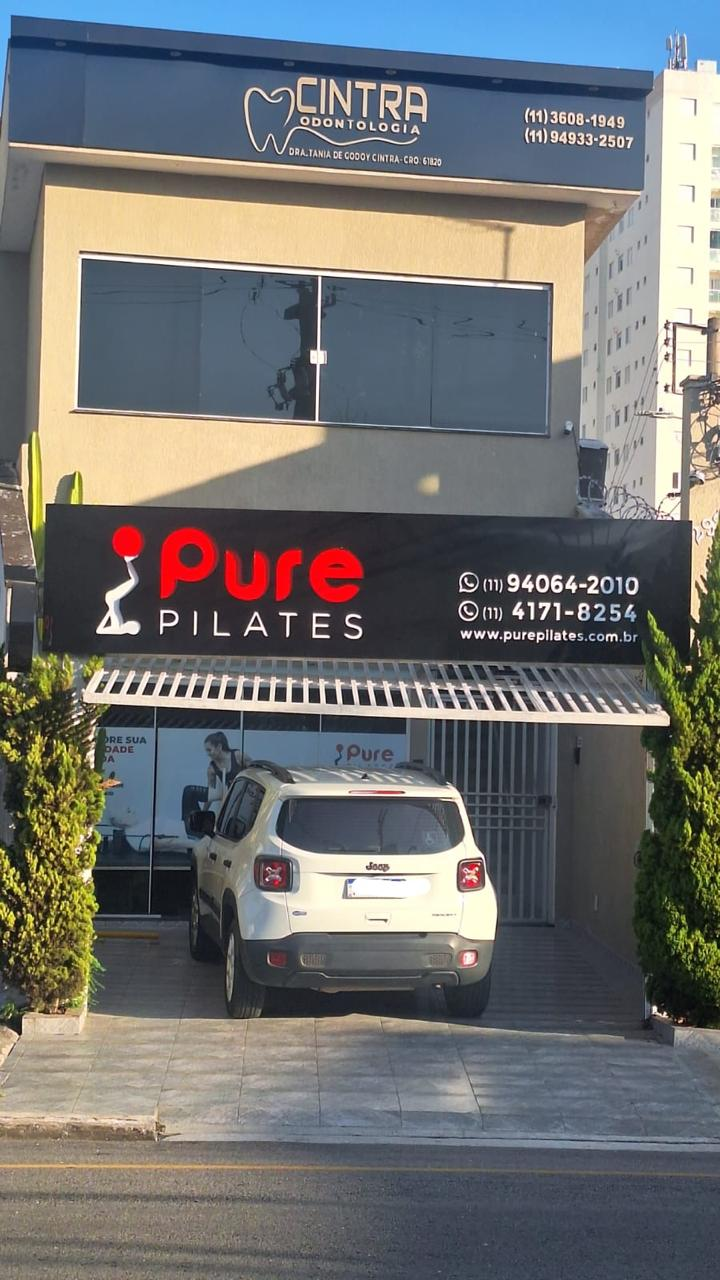
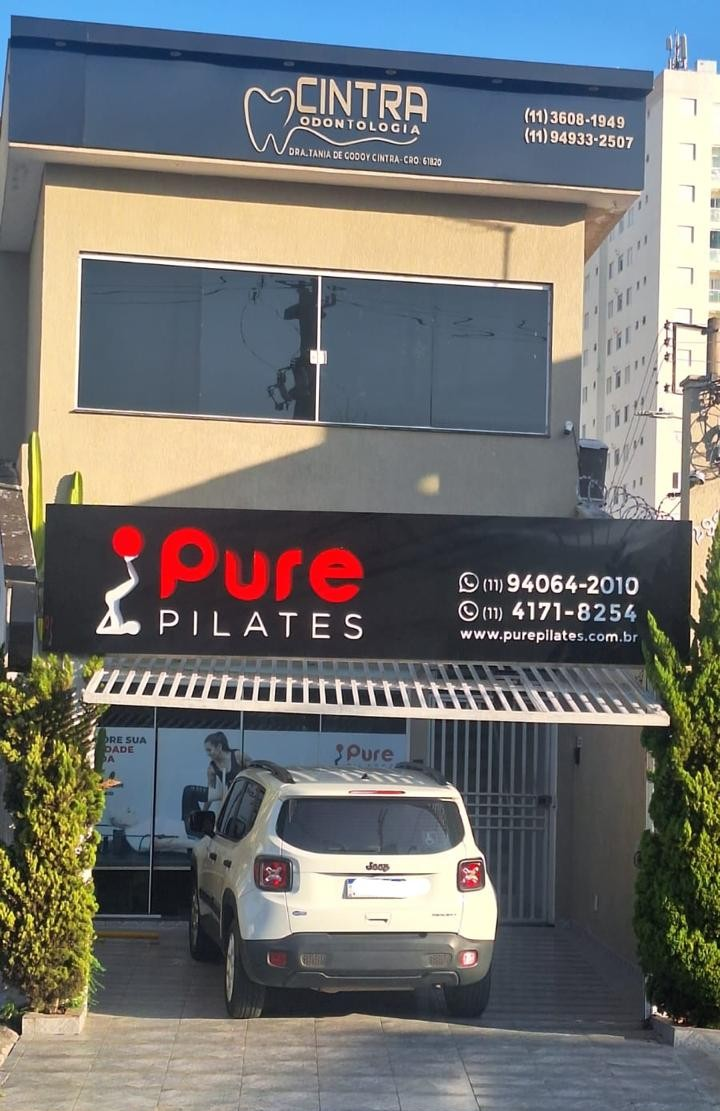
fix: recorte manual da imagem da fachada para manter padrão visual na galeria

diff --git a/style.css b/style.css
@@ -319,7 +319,7 @@ footer strong {
 
 .hero {
     position: relative;
-    background: url('assets/imagens/recepcao.jpg') center/cover fixed no-repeat;
+    background: url('assets/imagens/hero-consultorio-novo.jpg') center/cover fixed no-repeat;
     height: 70vh;
     display: flex;
     justify-content: center;
